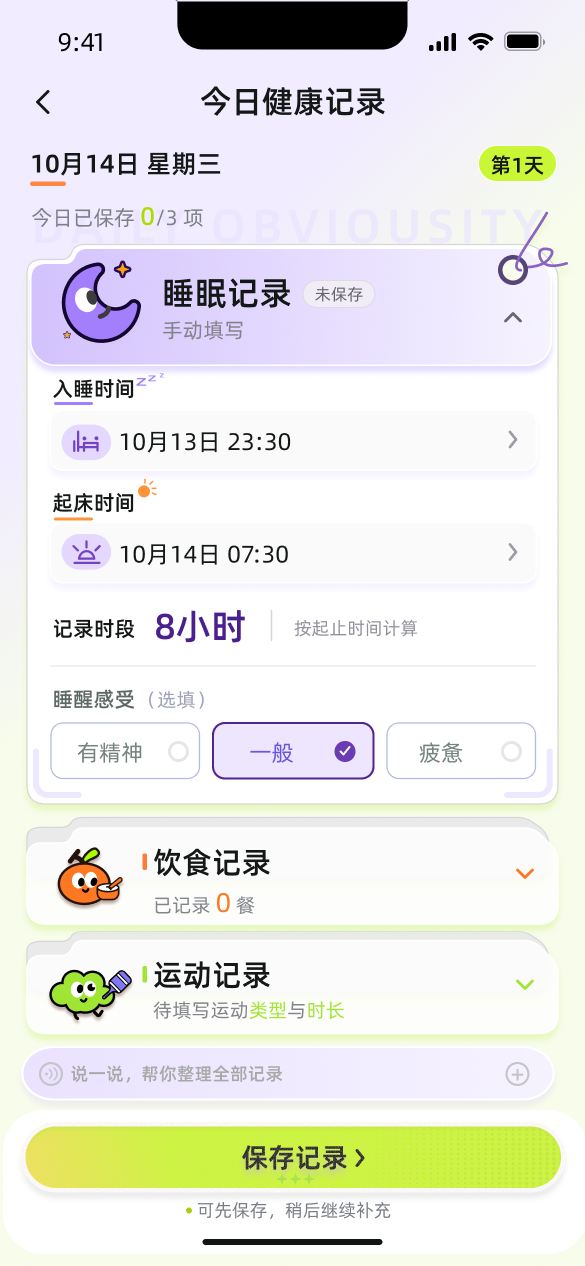
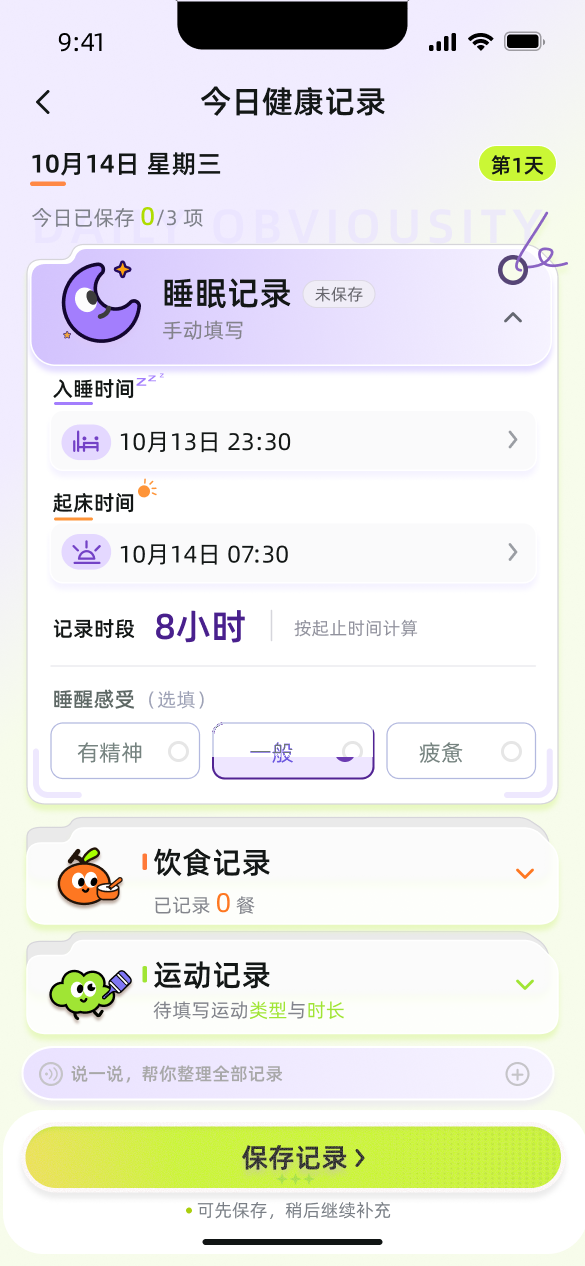
Limit sleep-feeling selected state to purple border and fill only.

Changed region(s): [[0.3692, 0.5545, 0.6462, 0.6161]]

diff --git a/health-app.html b/health-app.html
@@ -8,7 +8,7 @@
   <link rel="preconnect" href="https://fonts.googleapis.com" />
   <link rel="preconnect" href="https://fonts.gstatic.com" crossorigin />
   <link href="https://fonts.googleapis.com/css2?family=Source+Sans+3:ital,wght@0,400;0,500;0,600;0,700;1,600;1,700&family=Noto+Sans+SC:wght@400;500;600;700&display=swap" rel="stylesheet" />
-  <link rel="stylesheet" href="assets/portfolio.css?v=20261103o" />
+  <link rel="stylesheet" href="assets/portfolio.css?v=20261103p" />
 </head>
 <body class="tone-health">
   <div class="pf-top"><div class="pf-jump" aria-label="作品直达">
@@ -49,7 +49,7 @@
       </div>
     </div>
     <figure class="case-cover reveal reveal-delay-1">
-      <img src="assets/works/health/cover.jpg?v=20261103o" alt="健康伙伴 · 作品集扉页" />
+      <img src="assets/works/health/cover.jpg?v=20261103p" alt="健康伙伴 · 作品集扉页" />
     </figure>
   </header>
 
@@ -98,13 +98,13 @@
   <p class="case-note reveal">下列为作品集叙事页（非原型照搬），用于说明场景与设计判断；上方演示才是 Figma 高保真原型路径。</p>
 
   <section class="case-gallery" id="gallery">
-    <figure><img src="assets/works/health/cover.jpg?v=20261103o" alt="健康伙伴扉页" loading="lazy" /><figcaption>作品集扉页</figcaption></figure>
-    <figure><img src="assets/works/health/p01.jpg?v=20261103o" alt="健康伙伴第二页" loading="lazy" /><figcaption>01 · 说明与任务流</figcaption></figure>
-    <figure><img src="assets/works/health/p02.jpg?v=20261103o" alt="健康伙伴第三页" loading="lazy" /><figcaption>02 · 首页路径与反馈</figcaption></figure>
-    <figure><img src="assets/works/health/p03.jpg?v=20261103o" alt="健康伙伴第四页" loading="lazy" /><figcaption>03 · 录入方式</figcaption></figure>
-    <figure><img src="assets/works/health/p04.jpg?v=20261103o" alt="健康伙伴第五页" loading="lazy" /><figcaption>04 · 记录细节</figcaption></figure>
-    <figure><img src="assets/works/health/p05.jpg?v=20261103o" alt="健康伙伴第六页" loading="lazy" /><figcaption>05 · 画像与提醒</figcaption></figure>
-    <figure><img src="assets/works/health/p06.jpg?v=20261103o" alt="健康伙伴第七页" loading="lazy" /><figcaption>06 · 总结</figcaption></figure>
+    <figure><img src="assets/works/health/cover.jpg?v=20261103p" alt="健康伙伴扉页" loading="lazy" /><figcaption>作品集扉页</figcaption></figure>
+    <figure><img src="assets/works/health/p01.jpg?v=20261103p" alt="健康伙伴第二页" loading="lazy" /><figcaption>01 · 说明与任务流</figcaption></figure>
+    <figure><img src="assets/works/health/p02.jpg?v=20261103p" alt="健康伙伴第三页" loading="lazy" /><figcaption>02 · 首页路径与反馈</figcaption></figure>
+    <figure><img src="assets/works/health/p03.jpg?v=20261103p" alt="健康伙伴第四页" loading="lazy" /><figcaption>03 · 录入方式</figcaption></figure>
+    <figure><img src="assets/works/health/p04.jpg?v=20261103p" alt="健康伙伴第五页" loading="lazy" /><figcaption>04 · 记录细节</figcaption></figure>
+    <figure><img src="assets/works/health/p05.jpg?v=20261103p" alt="健康伙伴第六页" loading="lazy" /><figcaption>05 · 画像与提醒</figcaption></figure>
+    <figure><img src="assets/works/health/p06.jpg?v=20261103p" alt="健康伙伴第七页" loading="lazy" /><figcaption>06 · 总结</figcaption></figure>
   </section>
 
   <section class="related">
@@ -123,6 +123,6 @@
   </footer>
 
   <script src="assets/portfolio.js"></script>
-  <script src="assets/health-proto.js?v=20261103o"></script>
+  <script src="assets/health-proto.js?v=20261103p"></script>
 </body>
 </html>

diff --git a/assets/health-proto.js b/assets/health-proto.js
@@ -75,7 +75,7 @@
     sleep: {
       src: "assets/works/health/proto/sleep.png",
       title: "睡眠记录",
-      hint: "睡眠感受三选一（默认「一般」）；记录时段随入睡/起床更新",
+      hint: "睡眠感受三选一（默认「一般」）；选中仅加紫描边与浅紫底",
       spots: [
         { cls: "hs-hp-sleep-bedtime", to: "popTime", timeField: "bed", label: "入睡时间" },
         { cls: "hs-hp-sleep-wake", to: "popTime", timeField: "wake", label: "起床时间" },
@@ -304,26 +304,19 @@
     screen.querySelectorAll(".hp-feel-overlay").forEach((el) => el.remove());
     const feel = toggleState.feel || {};
     const selected = Object.keys(feel).find((k) => feel[k]) || "hs-hp-sleep-feel2";
-    // 稿面默认「一般」已是选中态；仅在选中其他项时叠图，保持原有形式
-    if (selected === "hs-hp-sleep-feel2") return;
-    const off2 = document.createElement("img");
-    off2.className = "hp-feel-overlay feel2";
-    off2.src = "assets/works/health/proto/feel-2-off.png";
-    off2.alt = "";
-    screen.appendChild(off2);
-    if (selected === "hs-hp-sleep-feel1") {
-      const on1 = document.createElement("img");
-      on1.className = "hp-feel-overlay feel1";
-      on1.src = "assets/works/health/proto/feel-1-on.png";
-      on1.alt = "";
-      screen.appendChild(on1);
-    } else if (selected === "hs-hp-sleep-feel3") {
-      const on3 = document.createElement("img");
-      on3.className = "hp-feel-overlay feel3";
-      on3.src = "assets/works/health/proto/feel-3-on.png";
-      on3.alt = "";
-      screen.appendChild(on3);
-    }
+    // 底图三钮均为未选；选中仅叠「紫色描边 + 浅紫底」，文字/空心圆不变
+    const map = {
+      "hs-hp-sleep-feel1": { cls: "feel1", src: "assets/works/health/proto/feel-1-on.png" },
+      "hs-hp-sleep-feel2": { cls: "feel2", src: "assets/works/health/proto/feel-2-on.png" },
+      "hs-hp-sleep-feel3": { cls: "feel3", src: "assets/works/health/proto/feel-3-on.png" },
+    };
+    const spec = map[selected];
+    if (!spec) return;
+    const imgEl = document.createElement("img");
+    imgEl.className = `hp-feel-overlay ${spec.cls}`;
+    imgEl.src = spec.src;
+    imgEl.alt = "";
+    screen.appendChild(imgEl);
   };
 
   const go = (id) => {

diff --git a/assets/portfolio.css b/assets/portfolio.css
@@ -526,7 +526,7 @@ body.tone-b .btn.primary:hover { background: #1558c7; }
   display: none !important;
 }
 
-/* 睡眠感受：热区保持透明，外观用稿面原图；切换时用叠图还原选中/未选 */
+/* 睡眠感受：底图为未选原样；选中仅叠紫色描边+浅紫底 */
 
 /* Hotspots — percentages measured from Figma PNG pixel scans */
 .hs-back { left: 0; top: 4.6%; width: 12%; height: 4.8%; }
